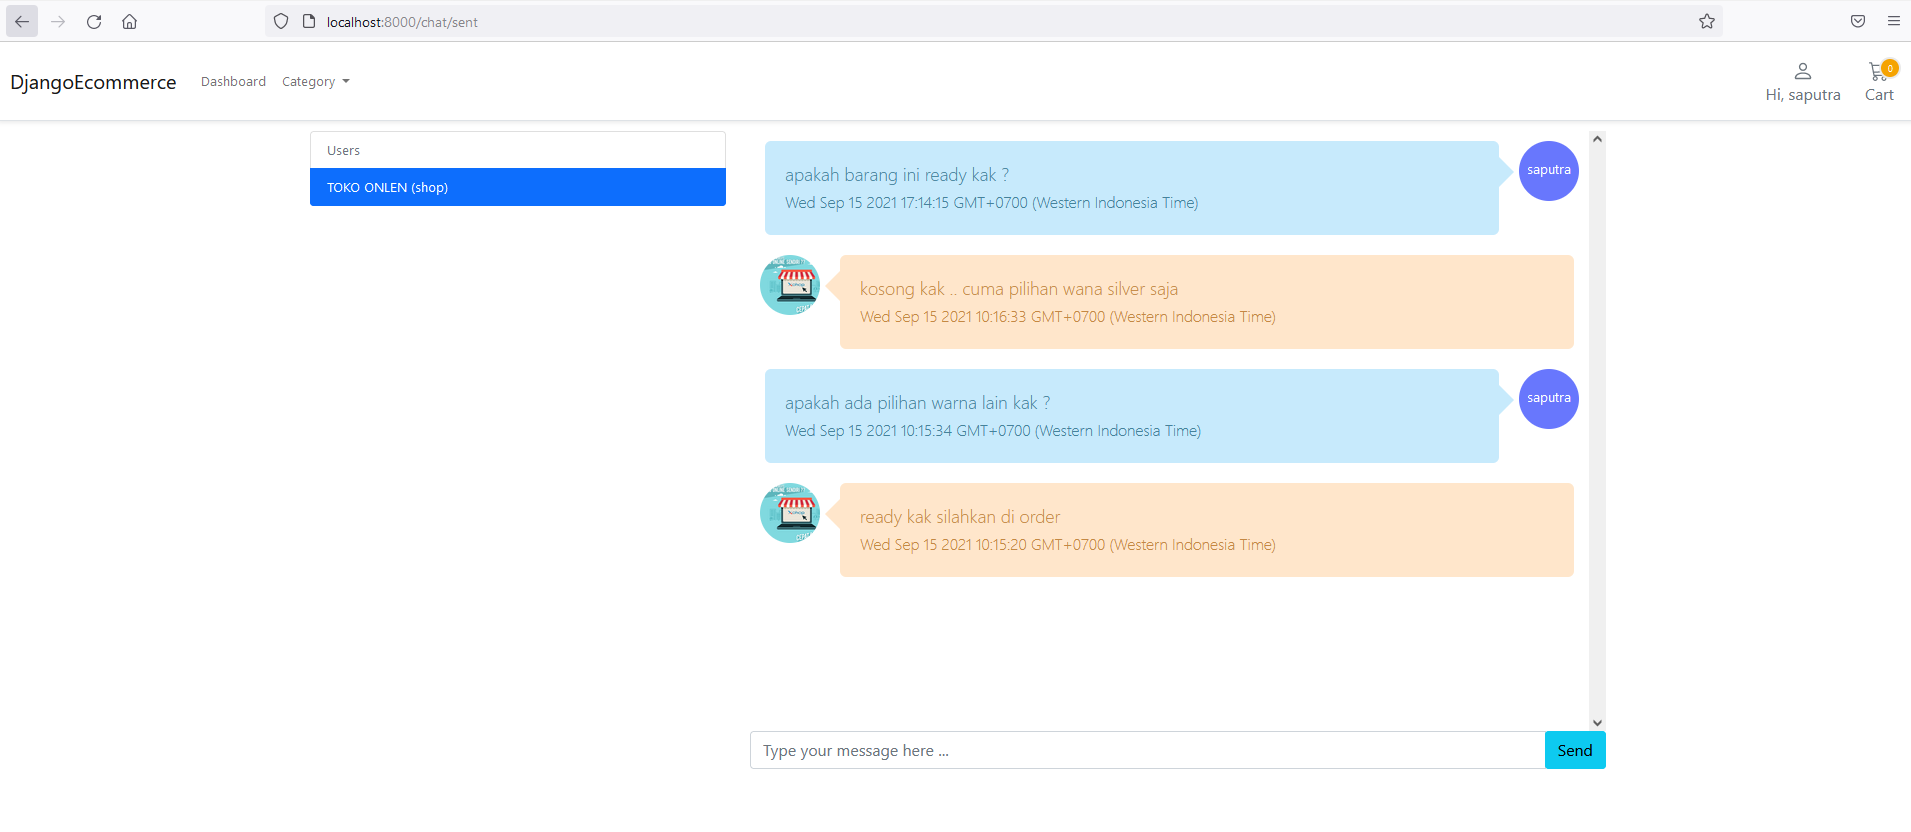
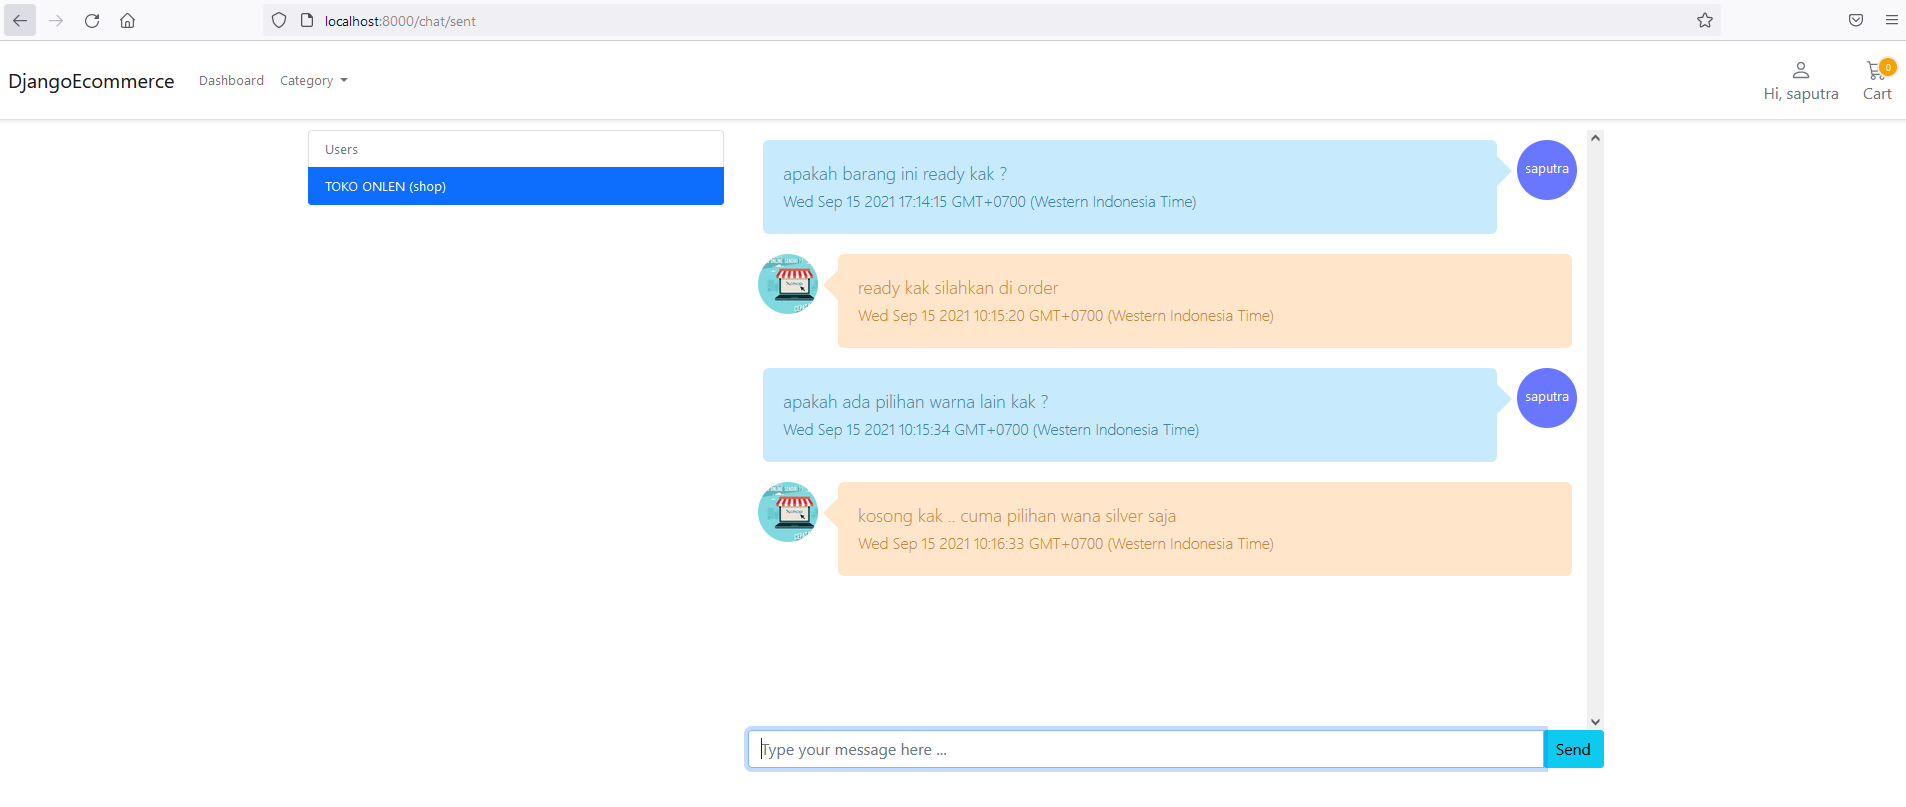
update product by shop

diff --git a/templates/store/products/detail.html b/templates/store/products/detail.html
@@ -19,14 +19,14 @@
             </div>
             <div class="col-md-8 col-lg-8 ps-md-3 ps-lg-5">
                 <h1 class="mb-0 h4">{{ product.title }}</h1>
-                <p><span class="lead">{{ product.author }}</span></p>
+                <p><!--span class="lead">{{ product.author }}</span--></p>
                 <!--p>{{ product.description|slice:":355" }}...</p-->
                 <div class="col-md-12" style="margin-bottom: 15px;">
                     <div class="row">
                         <div class="col-12" class="float-left">
                             <div class="justify-content-center">
-                                <div class="avatar" style="background-image: url('/media/{{product.created_by.shop.image}}'); background-size: cover; height: 50px; width: 50px; padding: 10px; border-radius: 50px;"></div>
-                                {{ product.created_by.shop.title }}
+                                <div class="avatar" style="background-image: url('/media/{{product.shop.image}}'); background-size: cover; height: 50px; width: 50px; padding: 10px; border-radius: 50px;"></div>
+                                {{ product.shop.title }}
                             </div>
                         </div>
                     </div>

diff --git a/store/models.py b/store/models.py
@@ -3,6 +3,8 @@ from django.db import models
 from django.urls import reverse
 from django.conf import settings
 
+from account.models import Shop
+
 class ProductManager(models.Manager):
     def get_queryset(self):
         return super(ProductManager, self).get_queryset().filter(is_active=True, in_stock=True)
@@ -22,10 +24,9 @@ class Category(models.Model):
 
 class Product(models.Model):
     category = models.ForeignKey(Category, related_name='product', on_delete=models.CASCADE)
-    created_by = models.ForeignKey(settings.AUTH_USER_MODEL, on_delete=models.CASCADE, related_name='product_creator')
+    shop = models.ForeignKey(Shop, on_delete=models.CASCADE, related_name='products', blank=True, null=True)
     
     title = models.CharField(max_length=255)
-    author = models.CharField(max_length=255, default='admin')
     description = models.TextField(blank=True)
     image = models.ImageField(upload_to='images/')
     slug = models.SlugField(max_length=255, unique=True)

diff --git a/store/migrations/0003_auto_20210915_2141.py b/store/migrations/0003_auto_20210915_2141.py
@@ -1,0 +1,28 @@
+# Generated by Django 3.1.4 on 2021-09-15 14:41
+
+from django.db import migrations, models
+import django.db.models.deletion
+
+
+class Migration(migrations.Migration):
+
+    dependencies = [
+        ('account', '0002_auto_20210915_0846'),
+        ('store', '0002_comment'),
+    ]
+
+    operations = [
+        migrations.RemoveField(
+            model_name='product',
+            name='author',
+        ),
+        migrations.RemoveField(
+            model_name='product',
+            name='created_by',
+        ),
+        migrations.AddField(
+            model_name='product',
+            name='shop',
+            field=models.ForeignKey(blank=True, null=True, on_delete=django.db.models.deletion.CASCADE, related_name='products', to='account.shop'),
+        ),
+    ]

diff --git a/store/admin.py b/store/admin.py
@@ -11,7 +11,7 @@ class CategoryAdmin(admin.ModelAdmin):
 
 @admin.register(Product)
 class ProductAdmin(admin.ModelAdmin):
-    list_display = ['title', 'author', 'category', 'price', 'in_stock', 'created', 'updated']
+    list_display = ['title', 'shop', 'category', 'price', 'in_stock', 'created', 'updated']
     list_filter = ['category', 'in_stock', 'is_active']
     list_editable = ['price', 'in_stock']
     prepopulated_fields = {'slug': ('title',)}

diff --git a/chat/migrations/0001_initial.py b/chat/migrations/0001_initial.py
@@ -25,7 +25,7 @@ class Migration(migrations.Migration):
             ],
             options={
                 'verbose_name_plural': 'messages',
-                'ordering': ('created',),
+                'ordering': ('-id',),
             },
         ),
     ]

diff --git a/chat/models.py b/chat/models.py
@@ -15,7 +15,7 @@ class Message(models.Model):
     
     class Meta:
         verbose_name_plural = 'messages'
-        ordering = ('created',)
+        ordering = ('-id',)
     
     def __str__(self):
         return str(self.id)
